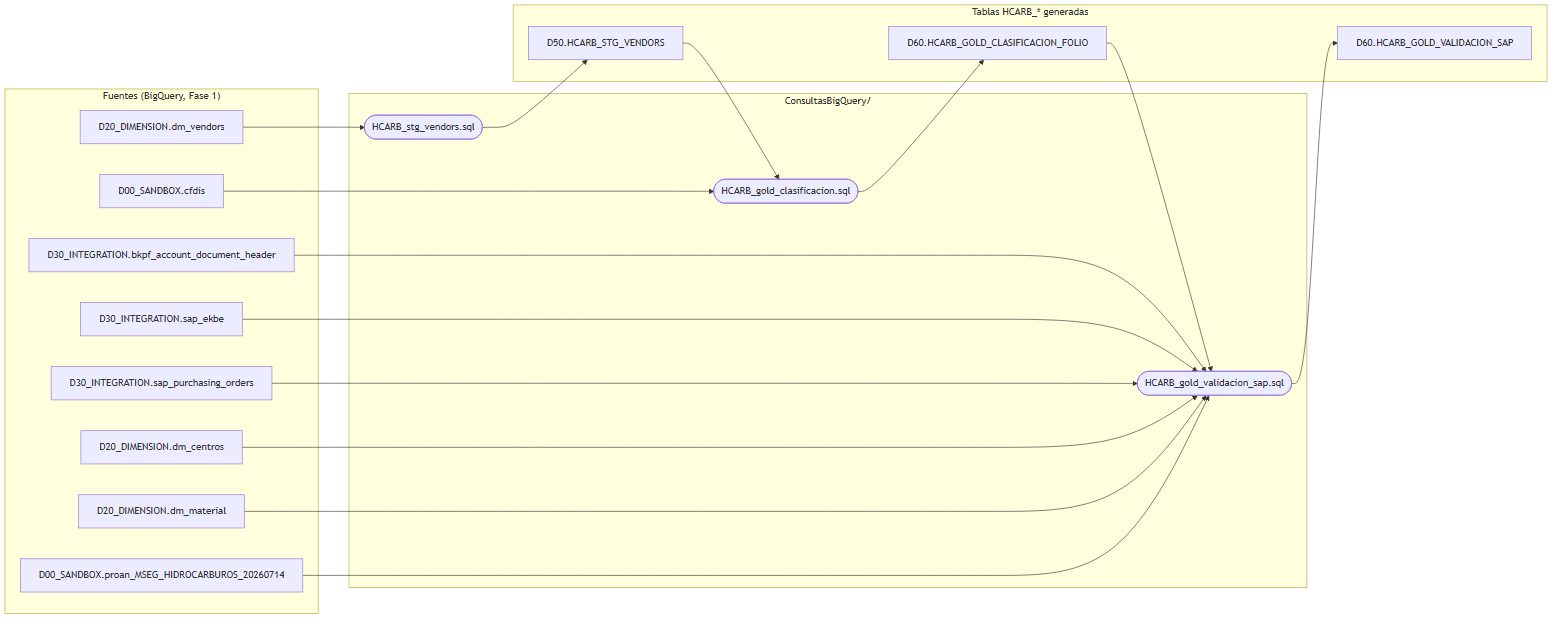
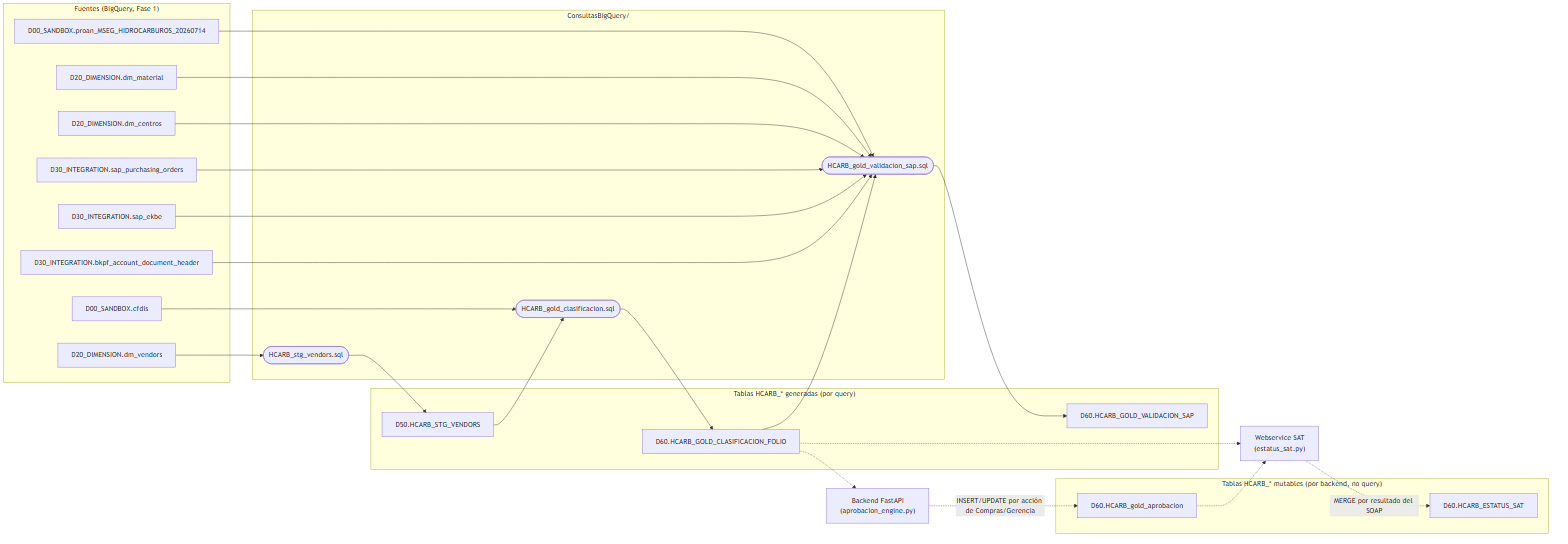
Diagramsa

diff --git a/ConsultasBigQuery/README.md b/ConsultasBigQuery/README.md
@@ -43,17 +43,38 @@ y `HCARB_GOLD_VALIDACION_SAP` (D60).
 ![Linaje de tablas: fuentes → queries → HCARB_*](./linaje-tablas.png)
 
 Fuente editable en [`linaje-tablas.mmd`](./linaje-tablas.mmd). Para
-regenerar: `npx -y @mermaid-js/mermaid-cli -i linaje-tablas.mmd -o linaje-tablas.png -b white -s 2`
+regenerar cualquiera de los `.mmd` de esta carpeta (este y los dos de más
+abajo): `npx -y @mermaid-js/mermaid-cli -i <archivo>.mmd -o <archivo>.png -b white -s 2`
 
 Pensado para quedar como tasks de un DAG de **Airflow** — no Cloud Run Job
 como el patrón `materialize_alerts.py` de Maka. Por ahora se corre a mano
 para el backfill histórico.
 
-## Qué NO está aquí
+## Tablas mutables (no construidas por una query de esta carpeta)
 
-- `HCARB_gold_aprobacion` — tabla mutable del **backend** (dos roles:
-  Compras/Gerencia), no una query de cálculo.
-- `HCARB_ESTATUS_SAT` — poblada por una task de Airflow que llama al
-  webservice del SAT, no por un `SELECT` sobre BigQuery.
+`HCARB_gold_aprobacion` y `HCARB_ESTATUS_SAT` viven en el mismo dataset
+(`D60_REPORTING`) pero **no las reconstruye ningún `SELECT` de aquí** —
+las escribe el backend directamente (INSERT/UPDATE/MERGE fila a fila) según
+acciones humanas o llamadas a un webservice externo. Por eso no hay un
+`HCARB_*.sql` "de cálculo" para ellas, pero sí dejamos versionado lo que sí
+es reutilizable sin leer Python:
 
-Detalle de ambas en `Datos/PHASE2/Esquema.md` §4-5.
+- **`HCARB_gold_aprobacion`** (Módulo 3, dos roles: Compras/Gerencia) —
+  esquema + máquina de estados completa en
+  [`HCARB_gold_aprobacion_schema.sql`](./HCARB_gold_aprobacion_schema.sql),
+  diagrama en [`flujo-aprobacion.png`](./flujo-aprobacion.png) (fuente
+  [`flujo-aprobacion.mmd`](./flujo-aprobacion.mmd)). La escribe
+  `apps/financialbi/financialbi/aprobacion_engine.py`.
+- **`HCARB_ESTATUS_SAT`** (D24, estatus de cancelación ante el SAT) —
+  esquema + mecánica en
+  [`HCARB_estatus_sat_schema.sql`](./HCARB_estatus_sat_schema.sql), diagrama
+  en [`flujo-estatus-sat.png`](./flujo-estatus-sat.png) (fuente
+  [`flujo-estatus-sat.mmd`](./flujo-estatus-sat.mmd)). La escribe
+  `apps/financialbi/financialbi/estatus_sat.py`, corriendo hoy a mano
+  (`python -m financialbi.estatus_sat`) hasta que exista el DAG de Airflow.
+
+`linaje-tablas.png` ya las incluye (subgrafo "Tablas mutables", con flechas
+punteadas para distinguirlas de las tablas que sí construye una query).
+
+Detalle narrativo adicional (no versionado en git) en
+`Datos/PHASE2/Esquema.md` §4-5.